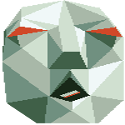
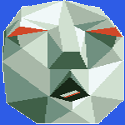
Updated all nav gif code to be background-images.

Changed region(s): [[0.0, 0.0, 1.0, 1.0]]

diff --git a/allFiles.css b/allFiles.css
@@ -55,6 +55,8 @@ li {
 }
 #navImg1 {
     content:url(images/mushroom.png);
+    background-image:url(images/marioBeatsBowser.gif);
+    background-size:100% 100%;
 }
 #navImg2 {
     content:url(images/powerStar.png);
@@ -63,21 +65,31 @@ li {
 }
 #navImg3 {
     content:url(images/masterSword.png);
+    background-image:url(images/masterSword.gif);
+    background-size:100% 100%;
 }
 #navImg4 {
     content:url(images/triforce.png);
+    background-image:url(images/Triforce.gif);
+    background-size:100% 100%;
 }
 #navImg5 {
     content:url(images/samusShip.png);
+    background-image:url(images/samusAppears.gif);
+    background-size:100% 100%;
 }
 #navImg6 {
     content:url(images/metroids.png);
 }
 #navImg7 {
     content:url(images/sparklingStars.png);
+    background-image:url(images/kirbyDance.gif);
+    background-size:100% 100%;
 }
 #navImg8 {
     content:url(images/waddleDee.png);
+    background-image:url(images/ultraSword.gif);
+    background-size:100% 100%;
 }
 #navImg9 {
     content:url(images/andross.png);
@@ -87,12 +99,18 @@ li {
 }
 #navImg11 {
     content:url(images/DKbarrel.jpg);
+    background-image:url(images/crankyPhonograph.gif);
+    background-size:100% 100%;
 }
 #navImg12 {
     content:url(images/kingKRool.jpg);
+    background-image:url(images/kingKRool.gif);
+    background-size:100% 100%;
 }
 #navImg13 {
     content:url(images/yoshis.png);
+    background-image:url(images/yoshis.gif);
+    background-size:100% 100%;
 }
 #navImg14 {
     content:url(images/yoshiEgg.jpg);
@@ -101,15 +119,21 @@ li {
 }
 #navImg15 {
     content:url(images/jinjo.jpeg);
+    background-image:url(images/banjoKazooieTitle.gif);
+    background-size:100% 100%;
 }
 #navImg16 {
     content:url(images/jiggy.png);
+    /*background-image:url(images/jiggyGrab.gif);*/
+    background-size:100% 100%;
 }
 #navImg17 {
     content:url(images/smashBall.png);
 }
 #navImg18 {
     content:url(images/masterHand.jpg);
+    background-image:url(images/masterHand.gif);
+    background-size:100% 100%;
 }
 #navImg19 {
     content:url(images/redPikmin.jpg);
@@ -125,9 +149,13 @@ li {
 }
 #navImg23 {
     content:url(images/greenSquid.png);
+    background-image:url(images/splatoon.gif);
+    background-size:100% 100%;
 }
 #navImg24 {
     content:url(images/squidSisters.jpg);
+    background-image:url(images/stayFresh.gif);
+    background-size:100% 100%;
 }
 #navImg1:hover {
     content:url(images/marioBeatsBowser.gif);
